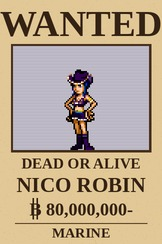
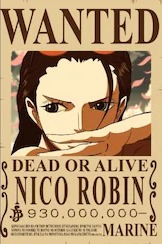
Carteles reales de Se Busca para Nami, Usopp, Chopper y Robin
Recortados de source-art/wanted/all-posters.webp con el mismo encuadre que
Luffy, Zoro y Sanji (cartel completo, 162x244). El HUD usa el nombre del
cartel (NAMI, GOD USOPP, CHOPPER) y se sube la caché del service worker.

diff --git a/js/core.js b/js/core.js
@@ -694,7 +694,7 @@ function updateHudPortrait() {
     if (name) name.innerText = CHAR_FULLNAME[selectedCharacter] || '';
 }
 // Nombre completo como aparece en los carteles de Se Busca
-const CHAR_FULLNAME = { luffy: 'MONKEY D. LUFFY', zoro: 'RORONOA ZORO', sanji: 'VINSMOKE SANJI', nami: 'GATA LADRONA NAMI', usopp: 'SOGEKING (USOPP)', chopper: 'TONY TONY CHOPPER', robin: 'NICO ROBIN' };
+const CHAR_FULLNAME = { luffy: 'MONKEY D. LUFFY', zoro: 'RORONOA ZORO', sanji: 'VINSMOKE SANJI', nami: 'NAMI', usopp: 'GOD USOPP', chopper: 'CHOPPER', robin: 'NICO ROBIN' };
 // Cómo se desbloquea cada personaje (se muestra en la carta bloqueada)
 const CHAR_LOCK_TEXT = { zoro: 'BLOQUEADO — TIENDA', sanji: 'BLOQUEADO — TIENDA', usopp: 'SOBREVIVE 5 MIN', nami: 'CONQUISTA EL BARATIE', chopper: 'DERROTA 1.500 ENEMIGOS', robin: 'CONQUISTA ALABASTA' };
 function selectCharacter(id) {

diff --git a/sw.js b/sw.js
@@ -3,7 +3,7 @@
 // - HTML, JS, CSS y manifest: red primero y caché si no hay conexión, para que siempre llegue la última versión.
 // - La música (.mp3) no pasa por aquí: el navegador la pide por rangos y la cachea él mismo.
 // Sube CACHE_VER si cambias un asset sin cambiar su nombre y quieres forzar que se descargue de nuevo.
-const CACHE_VER = 'opsurvivor-v1';
+const CACHE_VER = 'opsurvivor-v2';
 
 self.addEventListener('install', e => { self.skipWaiting(); });
 self.addEventListener('activate', e => {
